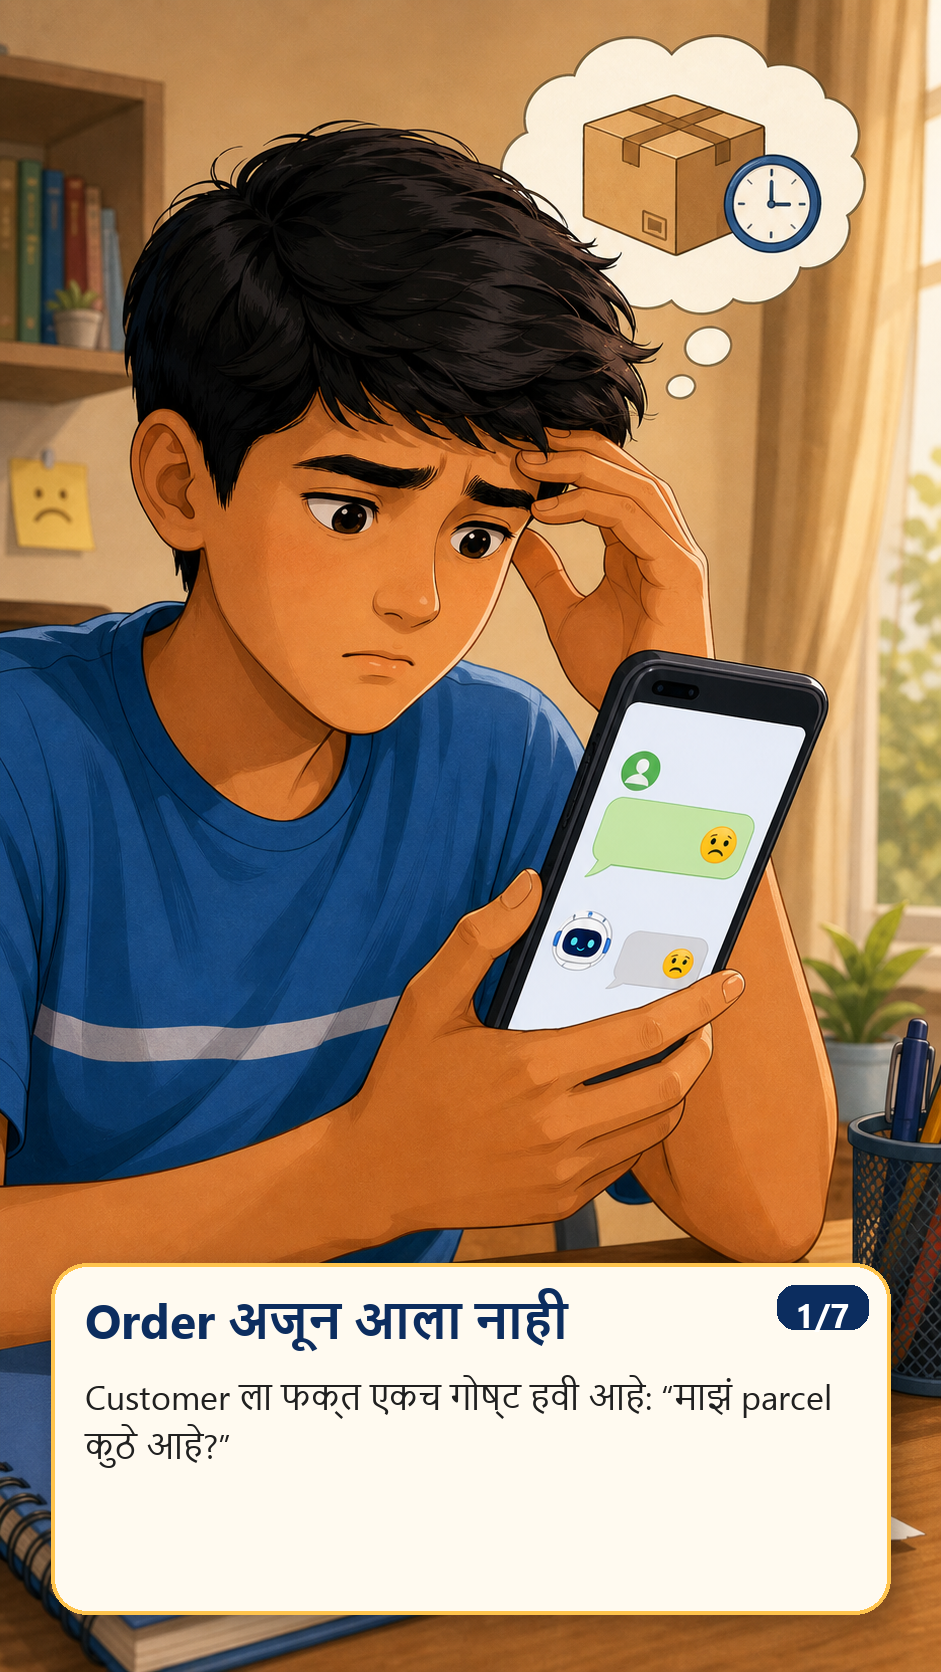
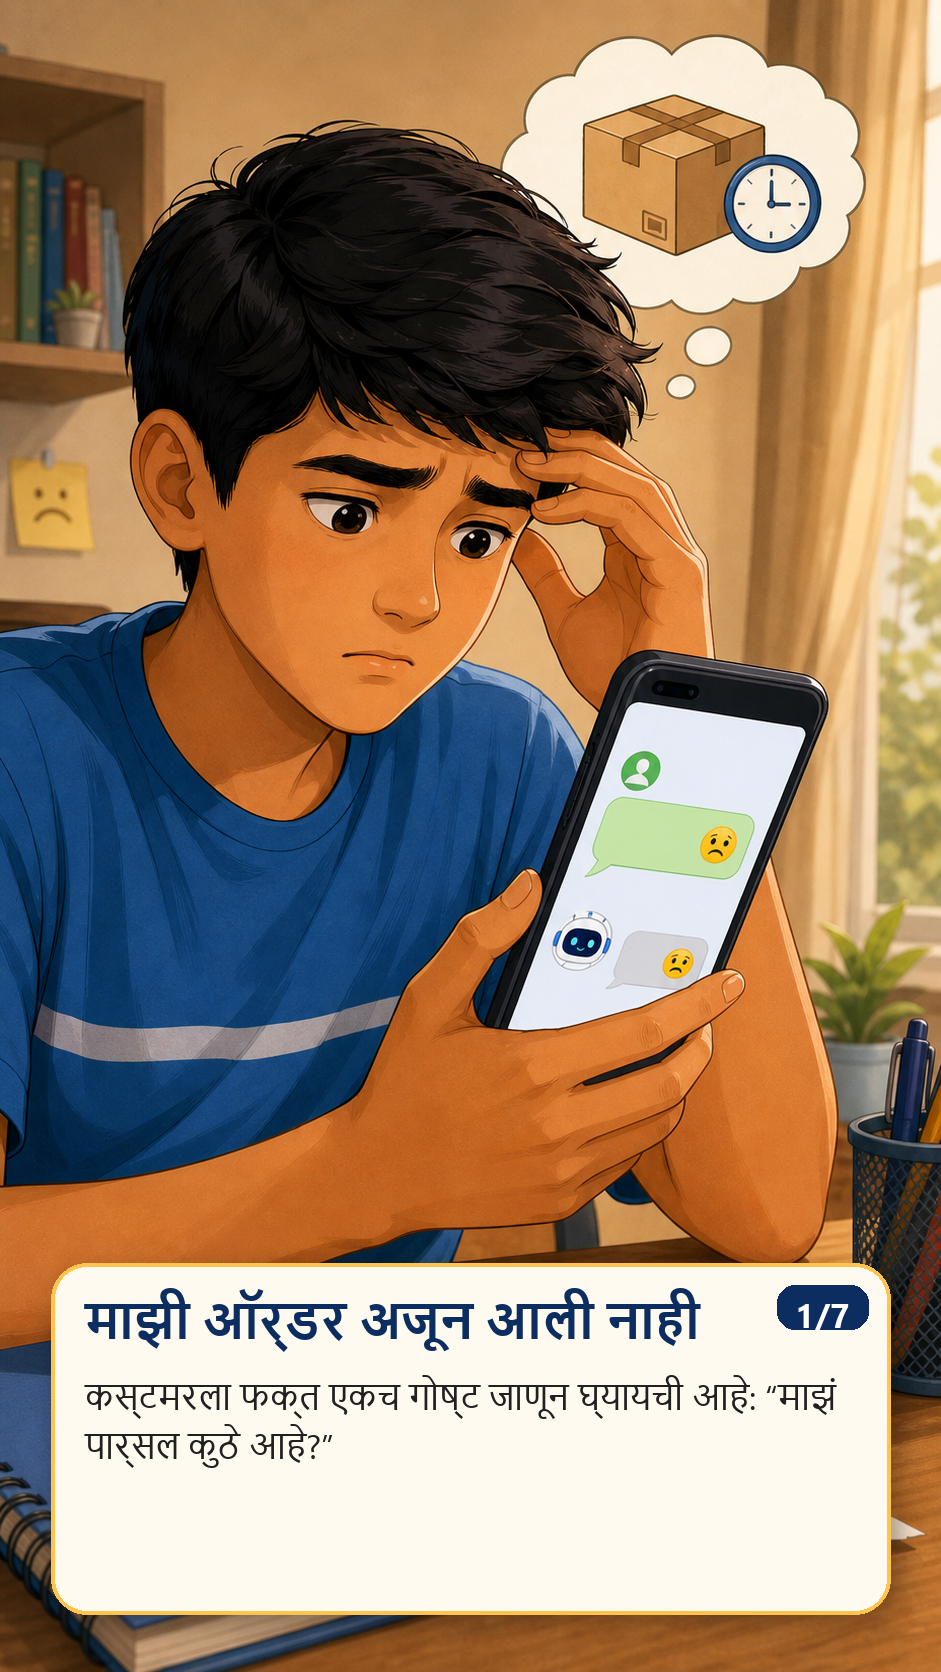
Refine Marathi mobile story copy

Changed region(s): [[0.0925, 0.7464, 0.8937, 0.8708]]

diff --git a/tools/generate_marathi_captioned_story.py b/tools/generate_marathi_captioned_story.py
@@ -13,38 +13,38 @@ FONT_REGULAR = r"C:\Windows\Fonts\Nirmala.ttf"
 CARDS = [
     (
         "01-late-order.png",
-        "Order अजून आला नाही",
-        "Customer ला फक्त एकच गोष्ट हवी आहे: “माझं parcel कुठे आहे?”",
+        "माझी ऑर्डर अजून आली नाही",
+        "कस्टमरला फक्त एकच गोष्ट जाणून घ्यायची आहे: “माझं पार्सल कुठे आहे?”",
     ),
     (
         "02-human-checks-system.png",
-        "Support अंदाज लावत नाही",
-        "तो Order ID किंवा Mobile Number घेऊन System मध्ये order check करतो.",
+        "सपोर्ट एजंट सिस्टम चेक करतो",
+        "तो ऑर्डर आयडी किंवा मोबाइल नंबर घेऊन सिस्टममध्ये ऑर्डर शोधतो.",
     ),
     (
         "03-ai-without-access.png",
-        "AI कडे access नसेल तर?",
-        "तो फक्त general answer देईल. खरा delivery status सांगू शकणार नाही.",
+        "एआयकडे माहितीच नसेल तर?",
+        "तो फक्त साधं उत्तर देऊ शकतो. खरं डिलिव्हरी स्टेटस सांगू शकत नाही.",
     ),
     (
         "04-ai-gets-tools.png",
-        "AI ला योग्य Tools मिळाले",
-        "Order System, Database आणि courier status जोडले की AI actual order check करू शकतो.",
+        "एआयला योग्य सिस्टम जोडली",
+        "ऑर्डर सिस्टम, डेटाबेस आणि कुरियर स्टेटस जोडले की एआय प्रत्यक्ष ऑर्डर चेक करू शकतो.",
     ),
     (
         "05-specific-update.png",
-        "आता answer specific होतो",
-        "Parcel कुठे आहे, delivery कधी expected आहे, हे AI स्पष्ट सांगू शकतो.",
+        "आता उत्तर नेमकं मिळतं",
+        "पार्सल सध्या कुठे आहे, डिलिव्हरी कधी होऊ शकते, हे एआय स्पष्ट सांगू शकतो.",
     ),
     (
         "06-human-handover.png",
-        "Tricky case? Human support",
-        "Refund, damaged item किंवा angry customer असेल, तर human support गरजेचा आहे.",
+        "केस अवघड असेल तर माणूस हवा",
+        "रिफंड, डॅमेज्ड आयटम किंवा रागावलेला कस्टमर असेल, तर माणसाचा सपोर्ट गरजेचा आहे.",
     ),
     (
         "07-ai-tools-human-summary.png",
-        "Best setup",
-        "AI routine काम करतो. Tricky cases human support कडे जातात.",
+        "बेस्ट सेटअप",
+        "साधं काम एआय करतो. अवघड केस माणसाकडे जातात.",
     ),
 ]
 

diff --git a/LOCALIZATION_GUIDE_MARATHI.md b/LOCALIZATION_GUIDE_MARATHI.md
@@ -10,28 +10,39 @@ The goal is understanding, not language purity.
 
 Use natural spoken Marathi with familiar English words where Marathi speakers already use those words.
 
+For Marathi visual content, common English words should often be written in Marathi letters so the viewer does not keep switching scripts.
+
 ## Keep Familiar English Words
 
-Generally keep these words in English inside Marathi sentences:
+Generally keep these words as familiar spoken terms, often written in Marathi letters inside Marathi visual copy:
 
-- AI
-- Customer Support
-- Agent
-- Order
-- Mobile Number
-- Email
-- System
-- ChatGPT
-- API
-- Tool
-- Website
-- Database
-- Login
-- Ticket
-- Dashboard
-- Automation
-- Report
-- Prompt
+- AI -> एआय
+- Customer -> कस्टमर
+- Customer Support -> कस्टमर सपोर्ट
+- Support Agent -> सपोर्ट एजंट
+- Order -> ऑर्डर
+- Order ID -> ऑर्डर आयडी
+- Mobile Number -> मोबाइल नंबर
+- Email -> ईमेल
+- System -> सिस्टम
+- ChatGPT -> चॅटजीपीटी
+- API -> एपीआय
+- Tool -> टूल
+- Website -> वेबसाइट
+- Database -> डेटाबेस
+- Login -> लॉगिन
+- Ticket -> तिकीट / टिकट, depending on context
+- Dashboard -> डॅशबोर्ड
+- Automation -> ऑटोमेशन
+- Report -> रिपोर्ट
+- Prompt -> प्रॉम्प्ट
+- Courier Status -> कुरियर स्टेटस
+- Delivery Status -> डिलिव्हरी स्टेटस
+- Refund -> रिफंड
+- Access -> ॲक्सेस
+- Check -> चेक
+- Search -> सर्च
+- Chatbot -> चॅटबॉट
 
 Do not force awkward Marathi replacements if people would not naturally say them.
 
@@ -39,11 +50,32 @@ Example:
 
 Use:
 
-> AI Agent ला Order System access असेल, तर तो delivery status check करू शकतो.
+> एआय एजंटला ऑर्डर सिस्टम ॲक्सेस असेल, तर तो डिलिव्हरी स्टेटस चेक करू शकतो.
 
 Avoid:
 
 > कृत्रिम बुद्धिमत्ता प्रतिनिधीला आदेश प्रणाली प्रवेश असेल, तर तो वितरण स्थिती तपासू शकतो.
+
+## Do Not Keep Every English Phrase
+
+Some English phrases feel artificial in Marathi. Use simple Marathi instead.
+
+Prefer:
+
+- general answer -> साधं उत्तर
+- specific answer -> नेमकं उत्तर
+- expected delivery -> डिलिव्हरी कधी होऊ शकते
+- tricky case -> अवघड केस
+- routine work -> साधं काम
+- angry customer -> रागावलेला कस्टमर
+
+Avoid lines like:
+
+> आता answer specific होतो.
+
+Prefer:
+
+> आता उत्तर नेमकं मिळतं.
 
 ## Voice
 
@@ -81,7 +113,7 @@ Prefer:
 Before finalizing, check:
 
 - Would I actually say this sentence while explaining to someone?
-- Did I keep common English words where Marathi speakers naturally use them?
+- Did I keep common English words where Marathi speakers naturally use them, preferably in Marathi letters for visual copy?
 - Did I avoid awkward literal translation?
 - Is the sentence simple enough for a student or parent?
 - Does the visual still work without heavy reading?
@@ -91,19 +123,19 @@ Before finalizing, check:
 
 Natural:
 
-> Customer विचारतो: "माझा Order अजून का आला नाही?"
+> कस्टमर विचारतो: "माझी ऑर्डर अजून आली नाही."
 
 Natural:
 
-> Support person आधी Order ID किंवा Mobile Number विचारतो. मग तो company System मध्ये order search करतो.
+> सपोर्ट एजंट आधी ऑर्डर आयडी किंवा मोबाइल नंबर विचारतो. मग तो सिस्टममध्ये ऑर्डर शोधतो.
 
 Natural:
 
-> AI कडे System access नसेल, तर तो फक्त general answer देईल. खरा delivery status सांगू शकणार नाही.
+> एआयकडे माहितीच नसेल, तर तो फक्त साधं उत्तर देईल. खरं डिलिव्हरी स्टेटस सांगू शकणार नाही.
 
 Natural:
 
-> AI कडे योग्य Tool आणि Database access असेल, तर तो specific answer देऊ शकतो.
+> एआयकडे योग्य सिस्टम आणि डेटाबेस ॲक्सेस असेल, तर तो नेमकं उत्तर देऊ शकतो.
 
 Avoid:
 

diff --git a/outputs/video-scripts/ai-customer-support-agent.mr.md b/outputs/video-scripts/ai-customer-support-agent.mr.md
@@ -6,60 +6,60 @@ Tone: natural Marathi-English mix. Not textbook Marathi.
 
 ## Beat 1
 
-Visual: Student phone पाहतो. Parcel late आहे.
+Visual: स्टुडंट फोन पाहतो. पार्सल लेट आहे.
 
 Voiceover:
 
-> कधी online order late झाला की आपण लगेच support ला message करतो: माझं parcel कुठे आहे?
+> कधी ऑनलाइन ऑर्डर लेट झाली की आपण लगेच सपोर्टला मेसेज करतो: माझं पार्सल कुठे आहे?
 
 ## Beat 2
 
-Visual: Customer Support person laptop वर order search करतो.
+Visual: कस्टमर सपोर्ट एजंट लॅपटॉपवर ऑर्डर सर्च करतो.
 
 Voiceover:
 
-> Support person answer अंदाजाने देत नाही. तो Order ID किंवा Mobile Number घेऊन System मध्ये order check करतो.
+> सपोर्ट एजंट अंदाजाने उत्तर देत नाही. तो ऑर्डर आयडी किंवा मोबाइल नंबर घेऊन सिस्टममध्ये ऑर्डर शोधतो.
 
 ## Beat 3
 
-Visual: AI bot confused. Database आणि courier locked.
+Visual: एआय बॉट गोंधळलेला आहे. डेटाबेस आणि कुरियर लॉक आहेत.
 
 Voiceover:
 
-> AI कडे System access नसेल, तर तो फक्त general answer देईल. जसं, delivery ला साधारण काही दिवस लागतात.
+> एआयकडे माहितीच नसेल, तर तो फक्त साधं उत्तर देईल. जसं, डिलिव्हरीला साधारण काही दिवस लागतात.
 
 ## Beat 4
 
-Visual: AI bot ला secure access मिळतो. Database आणि courier जोडले जातात.
+Visual: एआय बॉटला सुरक्षित ॲक्सेस मिळतो. डेटाबेस आणि कुरियर जोडले जातात.
 
 Voiceover:
 
-> पण AI ला योग्य Tool आणि Database access असेल, तर तो actual order status check करू शकतो.
+> पण एआयला योग्य सिस्टम, डेटाबेस आणि कुरियर स्टेटस जोडले असेल, तर तो प्रत्यक्ष ऑर्डर चेक करू शकतो.
 
 ## Beat 5
 
-Visual: Student खुश. Phone वर map/delivery route.
+Visual: स्टुडंट खुश आहे. फोनवर मॅप आणि डिलिव्हरी रूट दिसतो.
 
 Voiceover:
 
-> मग answer specific होतो: parcel कुठे आहे, delivery कधी expected आहे, पुढे काय करायचं.
+> मग उत्तर नेमकं मिळतं: पार्सल कुठे आहे, डिलिव्हरी कधी होऊ शकते, पुढे काय करायचं.
 
 ## Beat 6
 
-Visual: Damaged package. AI human support कडे handover करतो.
+Visual: डॅमेज्ड पॅकेज. एआय माणसाच्या सपोर्टकडे हँडओव्हर करतो.
 
 Voiceover:
 
-> पण refund, damaged item, angry customer असे cases AI ने एकट्याने handle करू नयेत. तिथे human support लागतो.
+> पण रिफंड, डॅमेज्ड आयटम, रागावलेला कस्टमर अशा केसेस एआयने एकट्याने हँडल करू नयेत. तिथे माणसाचा सपोर्ट लागतो.
 
 ## Beat 7
 
-Visual: AI, human, database, delivery truck, customer happy.
+Visual: एआय, माणूस, डेटाबेस, डिलिव्हरी ट्रक, कस्टमर खुश.
 
 Voiceover:
 
-> म्हणजे AI Agent हा फक्त chatbot नाही. तो System, Tools आणि human handover सोबत काम करणारा support helper आहे.
+> म्हणजे एआय एजंट हा फक्त चॅटबॉट नाही. तो सिस्टम, टूल्स आणि माणसाकडे हँडओव्हर सोबत काम करणारा सपोर्ट हेल्पर आहे.
 
 ## Caption Option
 
-> AI + Tools + Human Support = useful Customer Support Agent
+> एआय + टूल्स + माणसाचा सपोर्ट = उपयोगी कस्टमर सपोर्ट एजंट

diff --git a/outputs/mobile-stories/ai-customer-support-agent.mr.md b/outputs/mobile-stories/ai-customer-support-agent.mr.md
@@ -20,29 +20,29 @@ Captions image मध्येच आहेत. भाषा natural Marathi-Eng
 
 ## Caption Text
 
-1. Order अजून आला नाही
-   Customer ला फक्त एकच गोष्ट हवी आहे: "माझं parcel कुठे आहे?"
+1. माझी ऑर्डर अजून आली नाही
+   कस्टमरला फक्त एकच गोष्ट जाणून घ्यायची आहे: "माझं पार्सल कुठे आहे?"
 
-2. Support अंदाज लावत नाही
-   तो Order ID किंवा Mobile Number घेऊन System मध्ये order check करतो.
+2. सपोर्ट एजंट सिस्टम चेक करतो
+   तो ऑर्डर आयडी किंवा मोबाइल नंबर घेऊन सिस्टममध्ये ऑर्डर शोधतो.
 
-3. AI कडे access नसेल तर?
-   तो फक्त general answer देईल. खरा delivery status सांगू शकणार नाही.
+3. एआयकडे माहितीच नसेल तर?
+   तो फक्त साधं उत्तर देऊ शकतो. खरं डिलिव्हरी स्टेटस सांगू शकत नाही.
 
-4. AI ला योग्य Tools मिळाले
-   Order System, Database आणि courier status जोडले की AI actual order check करू शकतो.
+4. एआयला योग्य सिस्टम जोडली
+   ऑर्डर सिस्टम, डेटाबेस आणि कुरियर स्टेटस जोडले की एआय प्रत्यक्ष ऑर्डर चेक करू शकतो.
 
-5. आता answer specific होतो
-   Parcel कुठे आहे, delivery कधी expected आहे, हे AI स्पष्ट सांगू शकतो.
+5. आता उत्तर नेमकं मिळतं
+   पार्सल सध्या कुठे आहे, डिलिव्हरी कधी होऊ शकते, हे एआय स्पष्ट सांगू शकतो.
 
-6. Tricky case? Human support
-   Refund, damaged item किंवा angry customer असेल, तर human support गरजेचा आहे.
+6. केस अवघड असेल तर माणूस हवा
+   रिफंड, डॅमेज्ड आयटम किंवा रागावलेला कस्टमर असेल, तर माणसाचा सपोर्ट गरजेचा आहे.
 
-7. Best setup
-   AI routine काम करतो. Tricky cases human support कडे जातात.
+7. बेस्ट सेटअप
+   साधं काम एआय करतो. अवघड केस माणसाकडे जातात.
 
 ## Natural Marathi Check
 
-- AI, Customer Support, Order, Mobile Number, System, Tools, Database, access, status, Refund हे शब्द मुद्दाम English मध्ये ठेवले आहेत.
-- वाक्ये spoken Marathi सारखी ठेवली आहेत.
+- कॉमन इंग्लिश शब्द मराठी लिपीत ठेवले आहेत: एआय, कस्टमर, सपोर्ट एजंट, सिस्टम, ऑर्डर आयडी, मोबाइल नंबर, डेटाबेस, कुरियर स्टेटस, डिलिव्हरी स्टेटस, रिफंड.
+- अवघड इंग्लिश शब्दप्रयोग मराठीत नैसर्गिक केले आहेत: साधं उत्तर, नेमकं उत्तर, अवघड केस, साधं काम.
 - Literal translation टाळले आहे.
